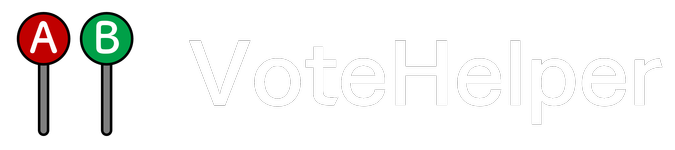
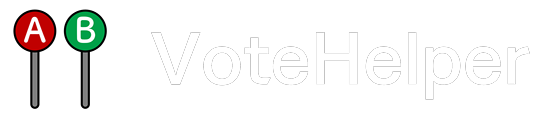
Title image optimization.

diff --git a/PROJECT/style.css b/PROJECT/style.css
@@ -5,7 +5,7 @@
 /* Area Specific */
 	/* Header */
 	#Ctrl_Title {
-		width: 180px;
+		width: 184px;
 	}
 	#Ctrl_Nav {
 		width: 480px;
